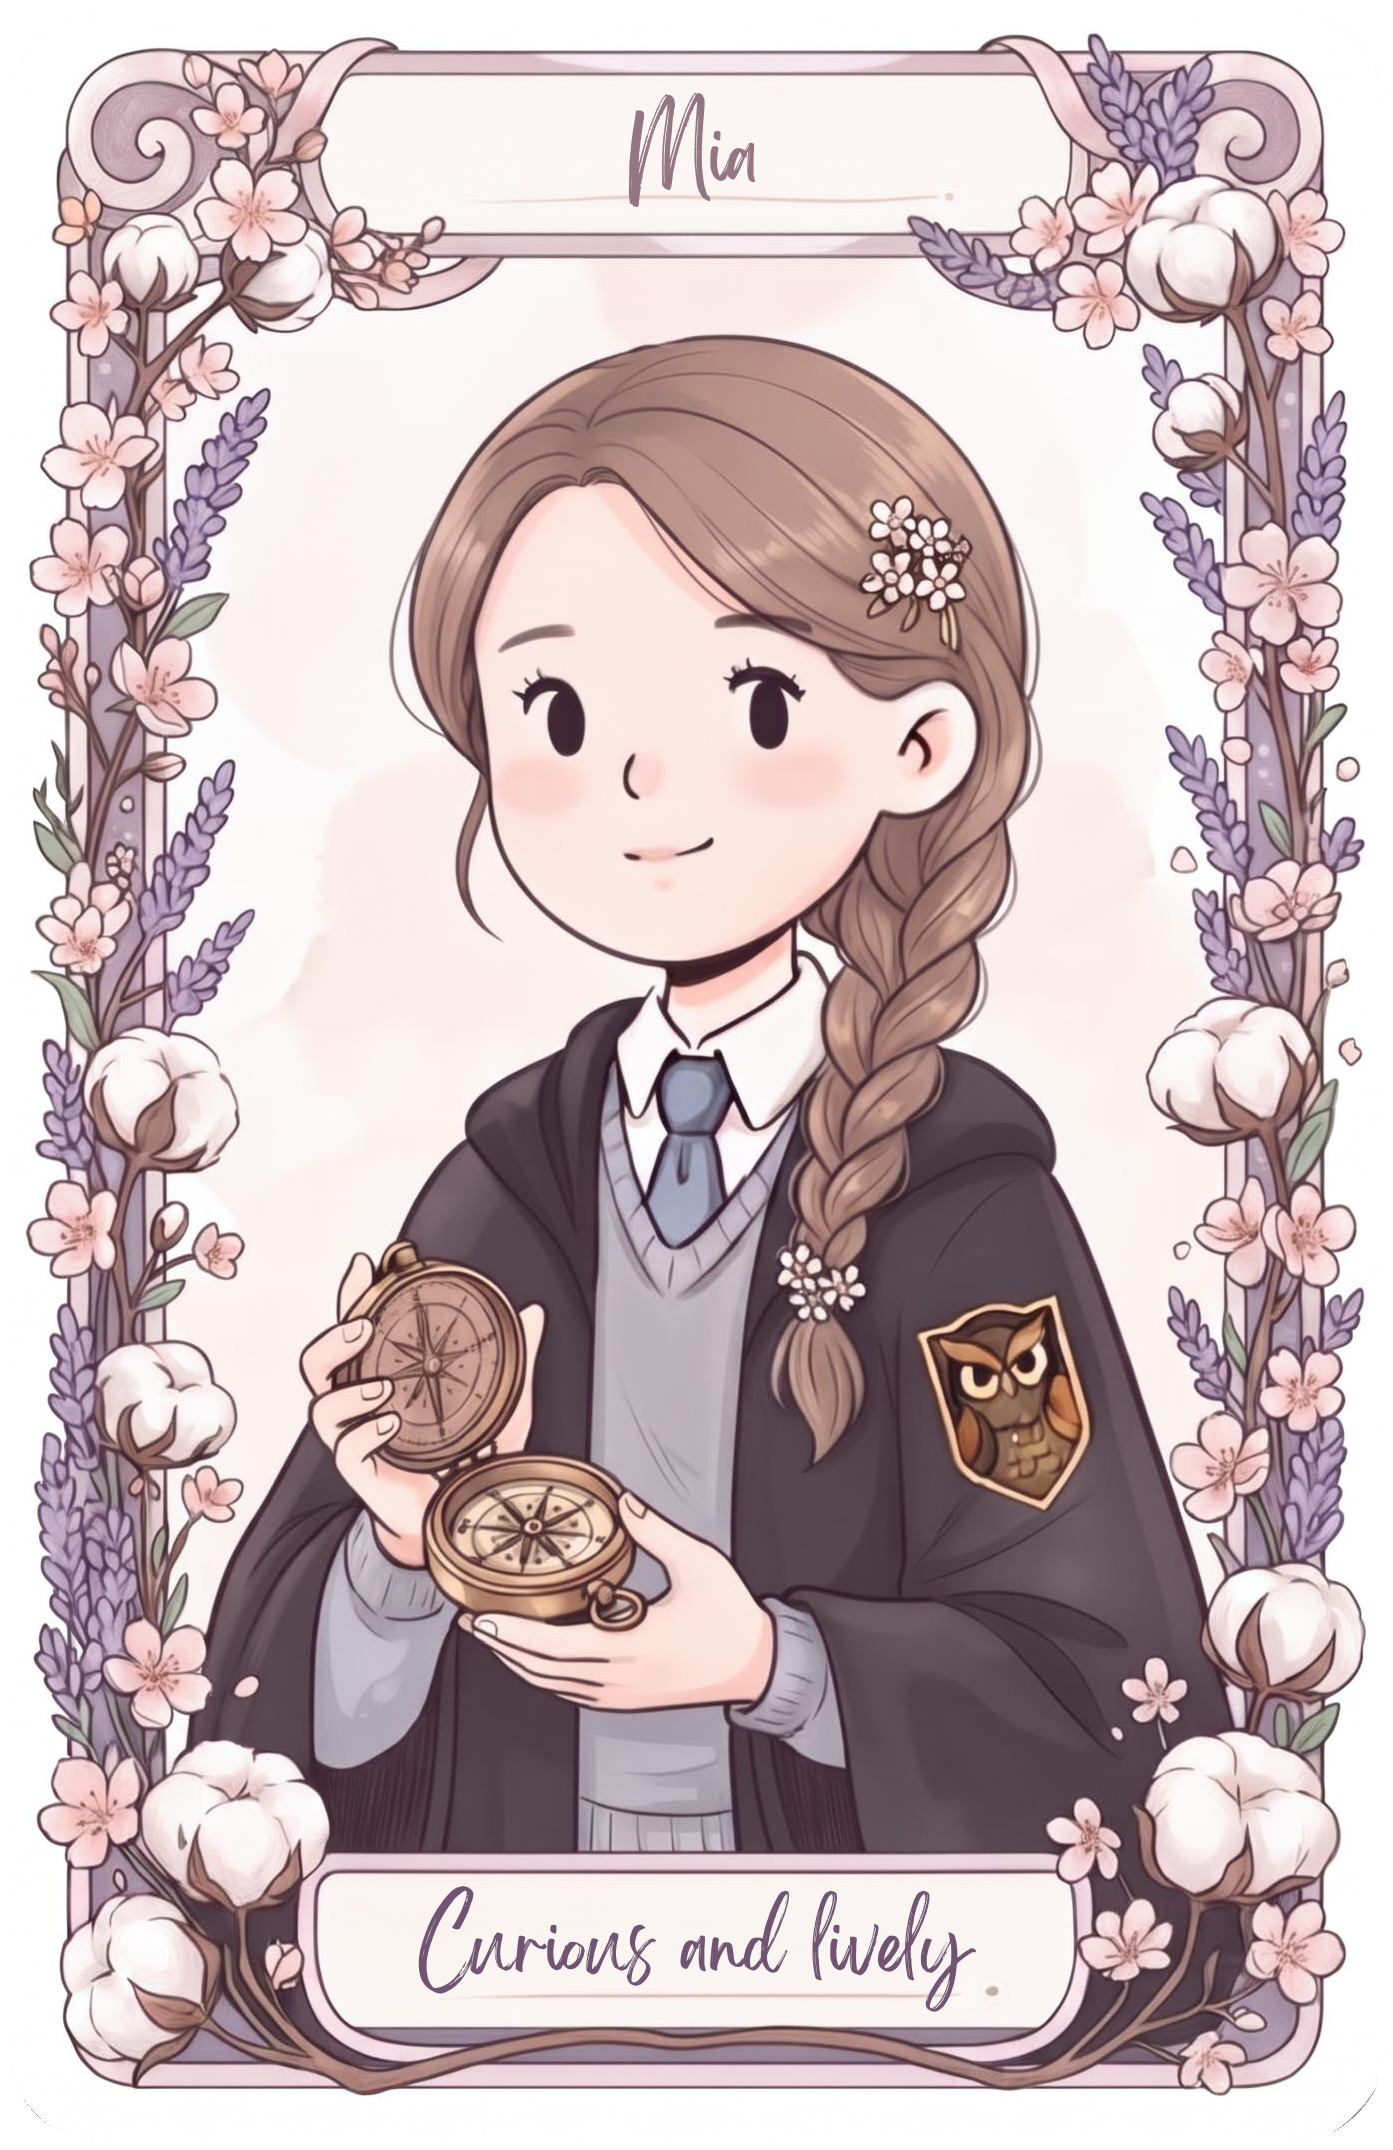
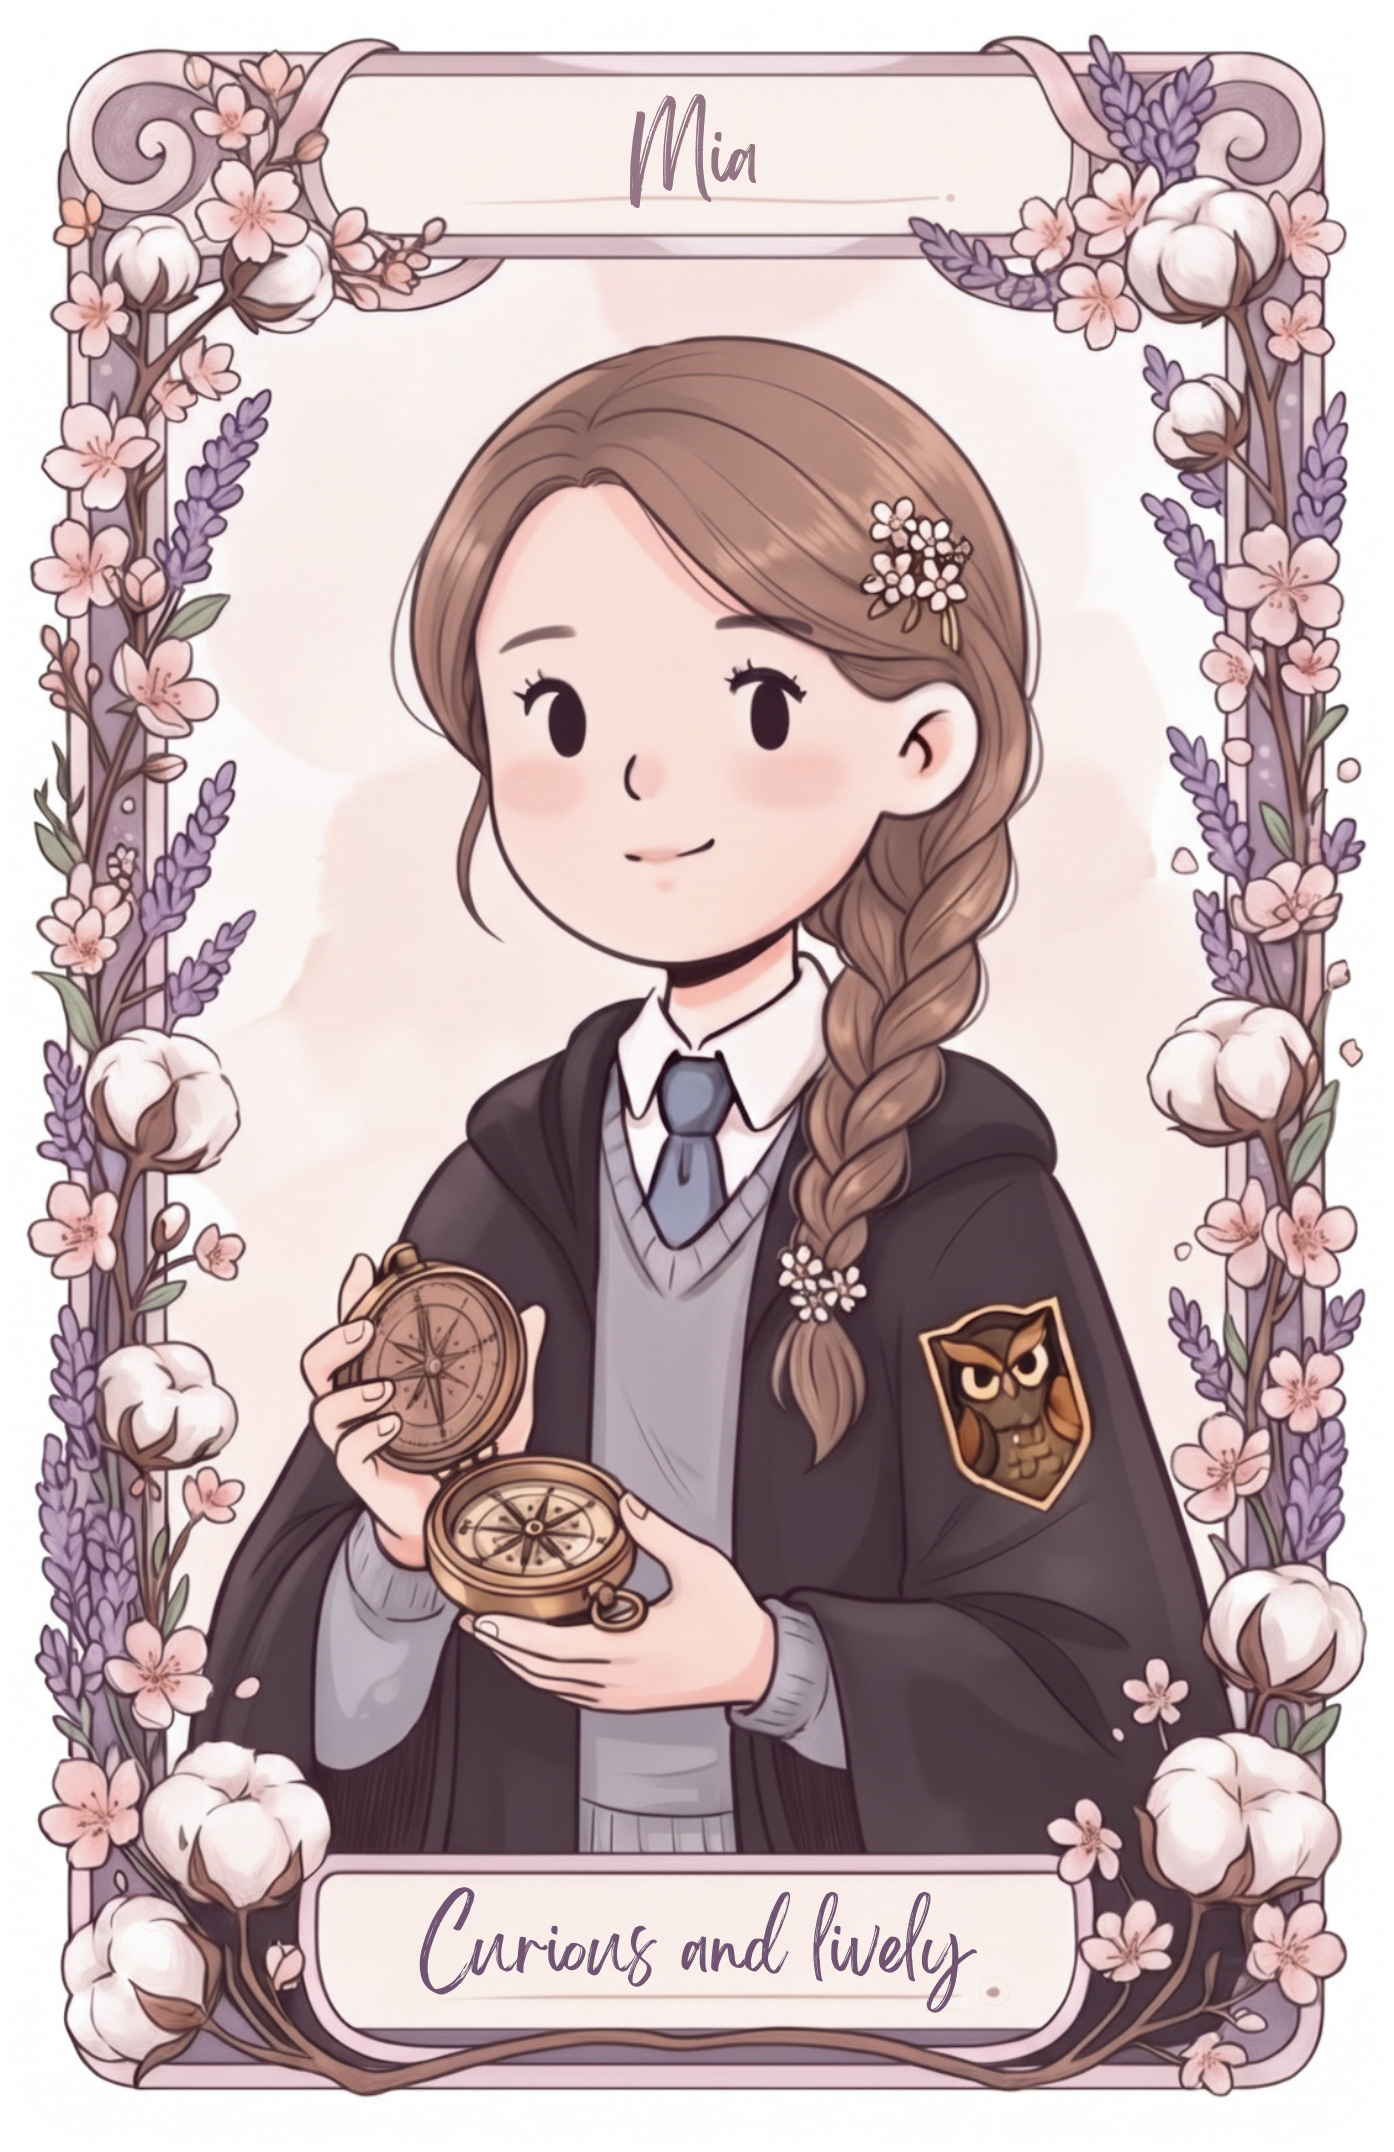
Use Wu's colour-adjusted Mia card
Replace only Mia's player picture with the supplied file, and refresh the image address so the previous card does not stay on screen.

diff --git a/game/mystic-mist-isles/index.html b/game/mystic-mist-isles/index.html
@@ -68,7 +68,7 @@
         <img src="art/players/oliver.png" alt="Oliver. Calm and observant." draggable="false"/>
       </button>
       <button type="button" class="cast-card" role="radio" aria-checked="false" data-player="mia">
-        <img src="art/players/mia.png?v=2" alt="Mia. Curious and lively." draggable="false"/>
+        <img src="art/players/mia.png?v=3" alt="Mia. Curious and lively." draggable="false"/>
       </button>
       <button type="button" class="cast-card" role="radio" aria-checked="false" data-player="felix">
         <img src="art/players/felix.png" alt="Felix. Cheerful and helpful." draggable="false"/>
@@ -124,6 +124,6 @@
     </div>
   </section>
 </main>
-<script src="academy.js?v=2"></script>
+<script src="academy.js?v=3"></script>
 </body>
 </html>

diff --git a/test/game-hub.test.js b/test/game-hub.test.js
@@ -61,7 +61,7 @@ test('game hub offers two worlds and leaves School Mystery in place', () => {
   assert.match(hold, /aria-label="The Alchemy Workshop"/);
   assert.match(hold, /href="word-brew\/"/);
   assert.match(hold, /art\/map\.jpg\?v=2/);
-  assert.match(hold, /mia\.png\?v=2/);
+  assert.match(hold, /mia\.png\?v=3/);
   assert.match(hold, /aria-label="The Misty Hall \(Student Dormitory\)"/);
   assert.match(hold, /aria-label="The Owl's Library &amp; Owl's Attic"/);
   assert.match(hold, /aria-label="The Verdant Conservatory"/);

diff --git a/game/mystic-mist-isles/academy.js b/game/mystic-mist-isles/academy.js
@@ -4,7 +4,7 @@
   var KEY = 'mmi-player-v1';
   var PLAYERS = {
     oliver: { name: 'Oliver', src: 'art/players/oliver.png' },
-    mia: { name: 'Mia', src: 'art/players/mia.png?v=2' },
+    mia: { name: 'Mia', src: 'art/players/mia.png?v=3' },
     felix: { name: 'Felix', src: 'art/players/felix.png' },
     clara: { name: 'Clara', src: 'art/players/clara.png' }
   };
